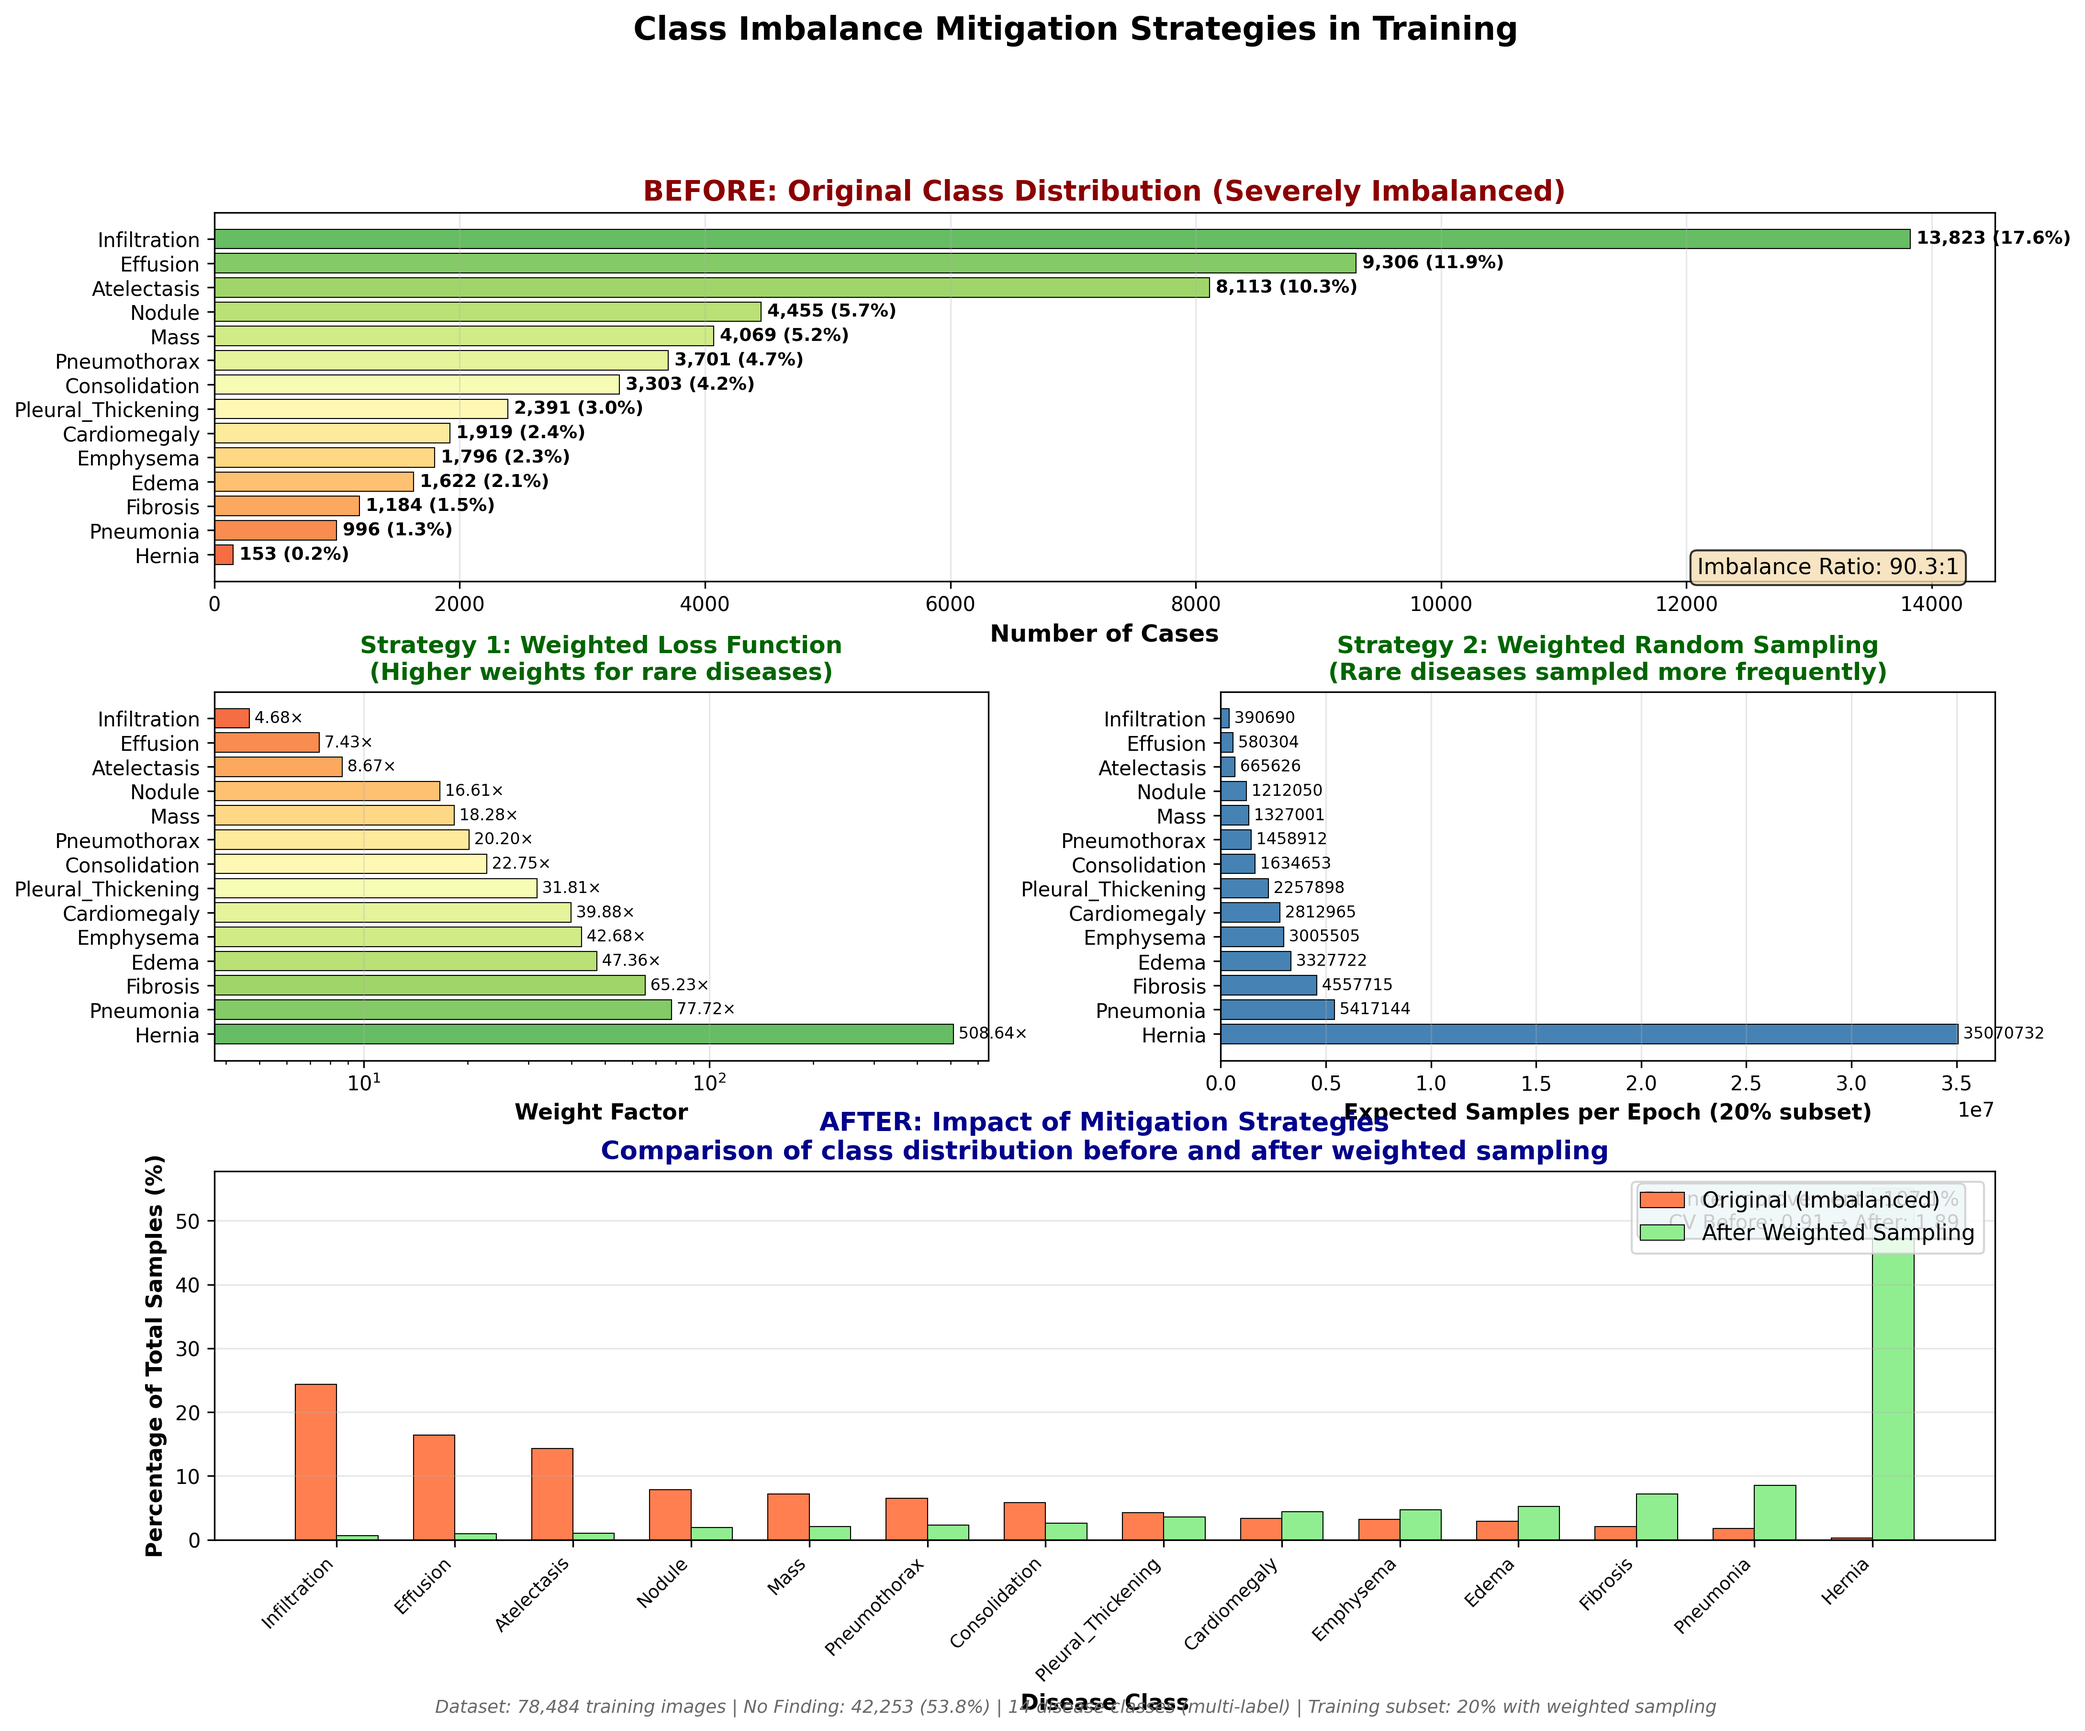
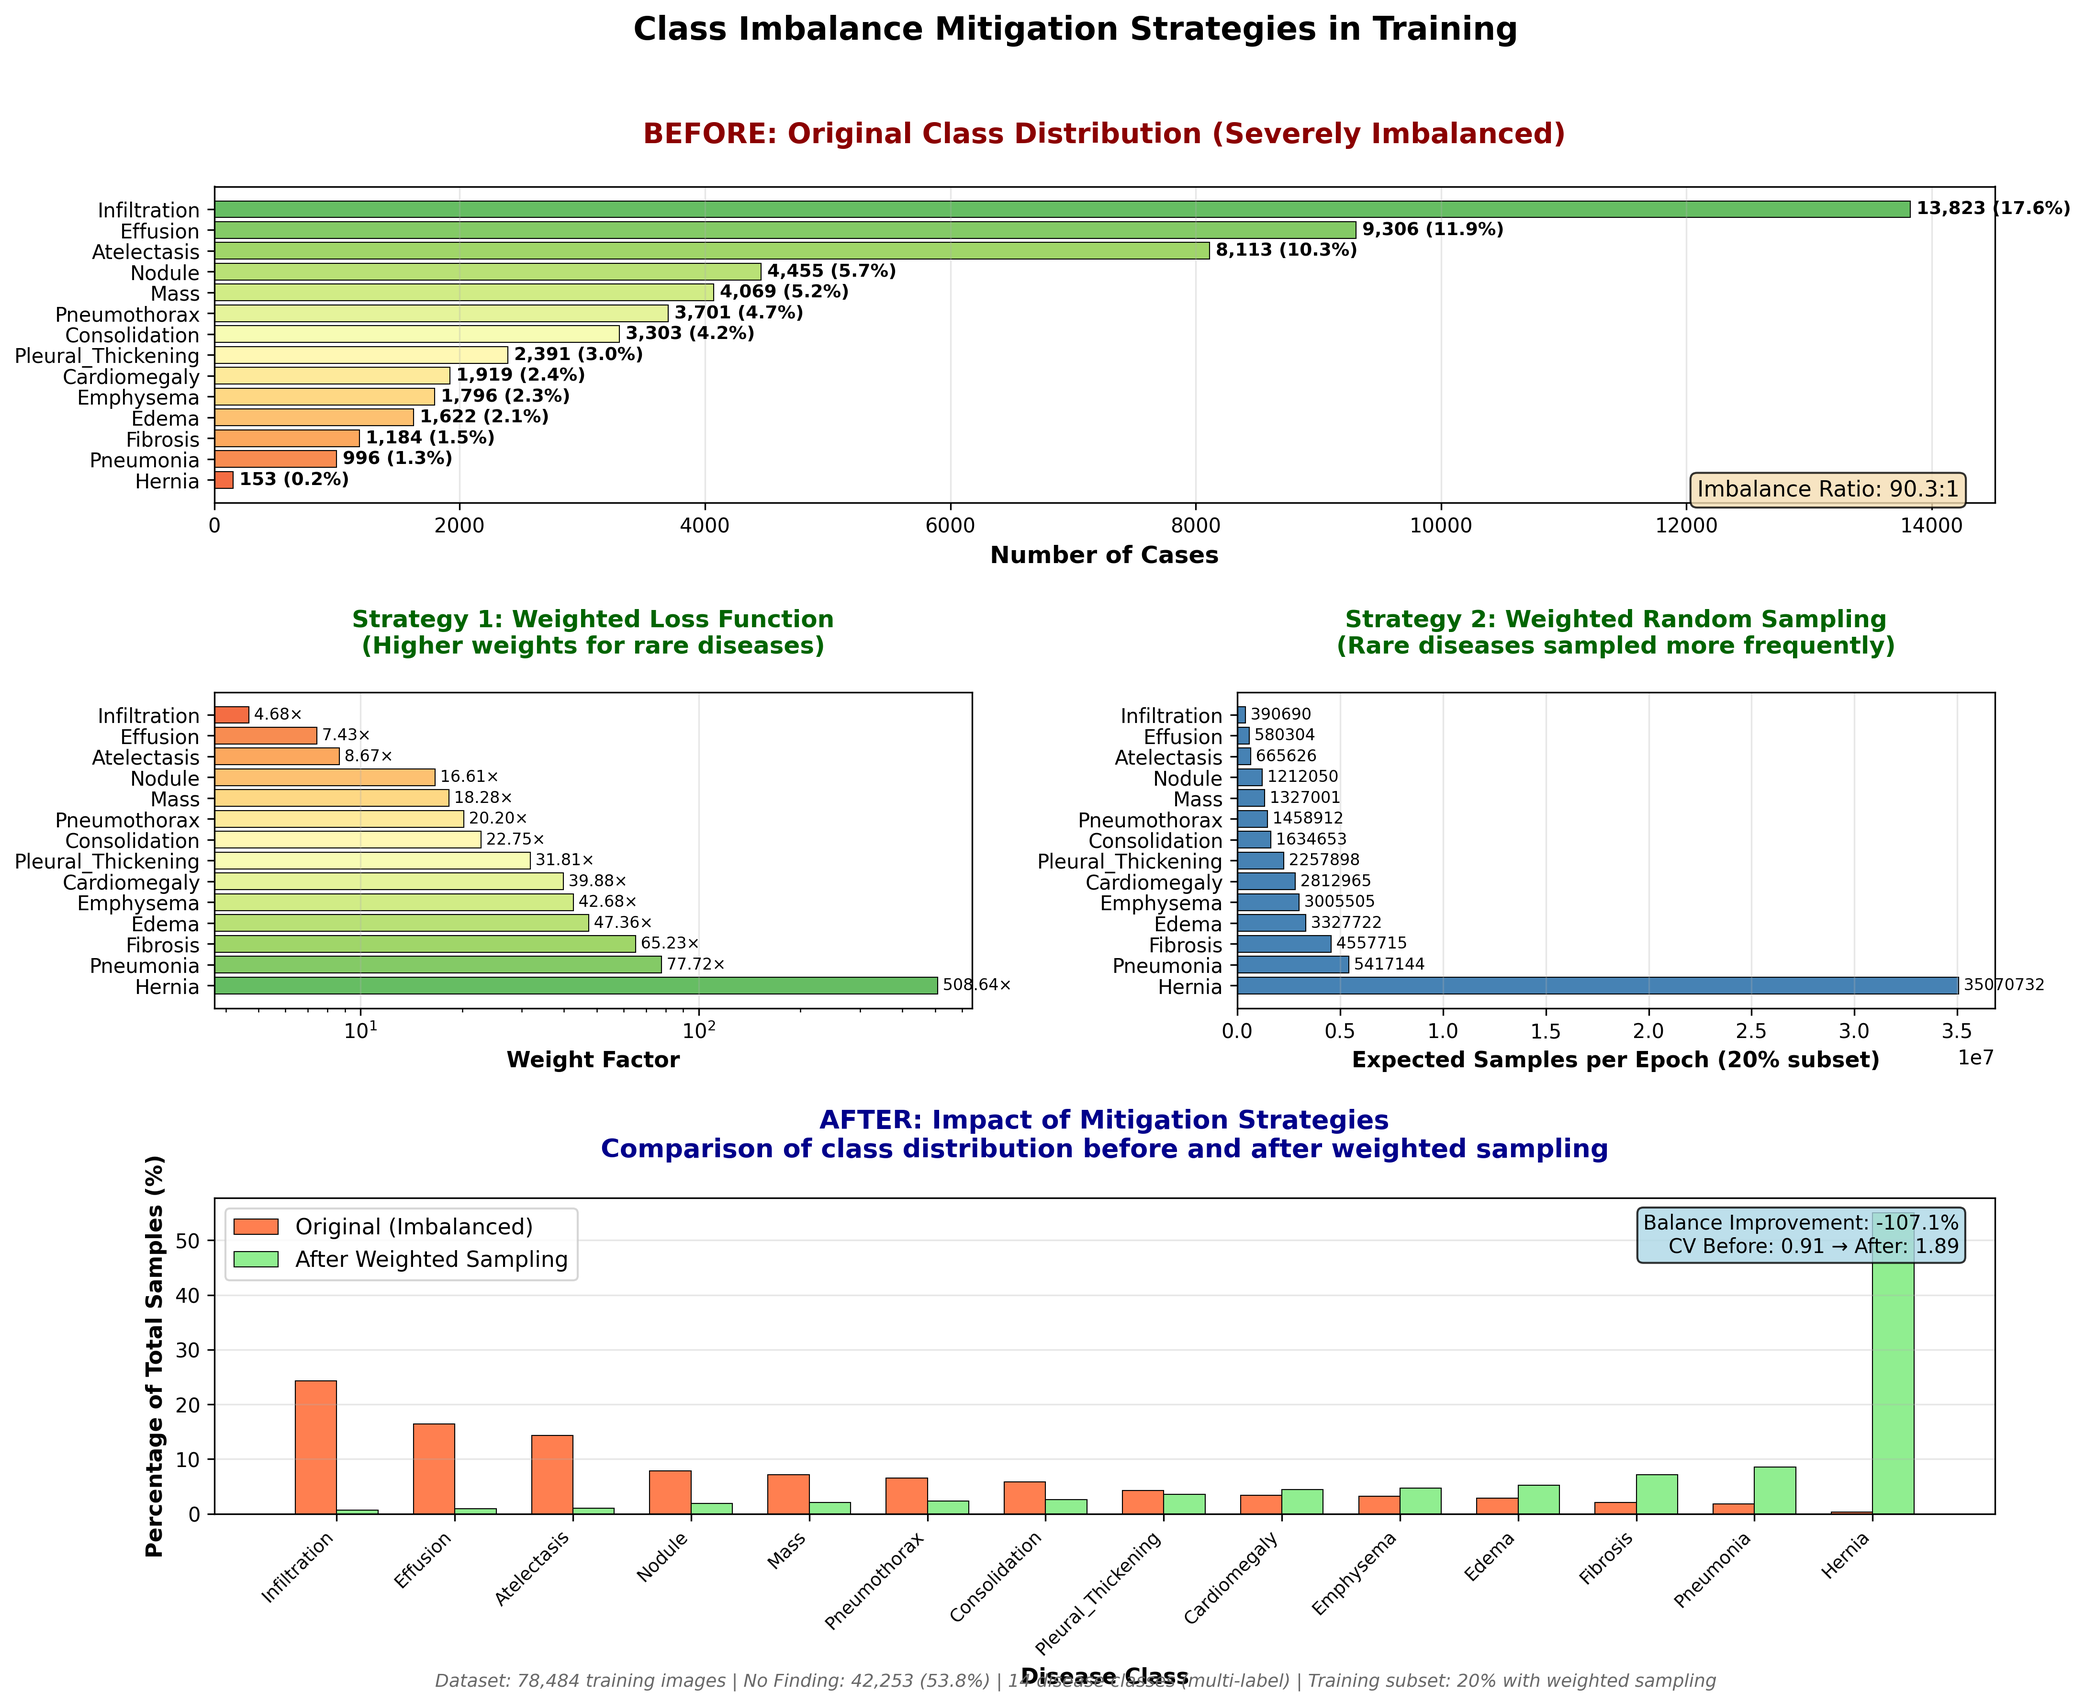
fix: Adjust layout and titles in class balance mitigation visualization for clarity

diff --git a/scripts/visualize_class_balance.py b/scripts/visualize_class_balance.py
@@ -122,7 +122,7 @@ def create_visualization(splits_dir: Path, output_path: Path):
     
     # Create figure with 4 subplots
     fig = plt.figure(figsize=(16, 12))
-    gs = fig.add_gridspec(3, 2, hspace=0.3, wspace=0.3)
+    gs = fig.add_gridspec(3, 2, hspace=0.6, wspace=0.35)
     
     # Color palette
     colors = plt.cm.RdYlGn_r(np.linspace(0.2, 0.8, len(diseases)))
@@ -133,7 +133,7 @@ def create_visualization(splits_dir: Path, output_path: Path):
     ax1 = fig.add_subplot(gs[0, :])
     bars1 = ax1.barh(diseases, original_counts, color=colors, edgecolor='black', linewidth=0.5)
     ax1.set_xlabel('Number of Cases', fontsize=12, fontweight='bold')
-    ax1.set_title('BEFORE: Original Class Distribution (Severely Imbalanced)', 
+    ax1.set_title('BEFORE: Original Class Distribution (Severely Imbalanced)\n', 
                   fontsize=14, fontweight='bold', color='darkred')
     ax1.invert_yaxis()
     ax1.grid(axis='x', alpha=0.3)
@@ -156,7 +156,7 @@ def create_visualization(splits_dir: Path, output_path: Path):
     ax2 = fig.add_subplot(gs[1, 0])
     bars2 = ax2.barh(diseases, weights, color=colors[::-1], edgecolor='black', linewidth=0.5)
     ax2.set_xlabel('Weight Factor', fontsize=11, fontweight='bold')
-    ax2.set_title('Strategy 1: Weighted Loss Function\n(Higher weights for rare diseases)',
+    ax2.set_title('Strategy 1: Weighted Loss Function\n(Higher weights for rare diseases)\n',
                   fontsize=12, fontweight='bold', color='darkgreen')
     ax2.invert_yaxis()
     ax2.set_xscale('log')
@@ -172,7 +172,7 @@ def create_visualization(splits_dir: Path, output_path: Path):
     ax3 = fig.add_subplot(gs[1, 1])
     bars3 = ax3.barh(diseases, effective, color='steelblue', edgecolor='black', linewidth=0.5)
     ax3.set_xlabel('Expected Samples per Epoch (20% subset)', fontsize=11, fontweight='bold')
-    ax3.set_title('Strategy 2: Weighted Random Sampling\n(Rare diseases sampled more frequently)',
+    ax3.set_title('Strategy 2: Weighted Random Sampling\n(Rare diseases sampled more frequently)\n',
                   fontsize=12, fontweight='bold', color='darkgreen')
     ax3.invert_yaxis()
     ax3.grid(axis='x', alpha=0.3)
@@ -202,12 +202,12 @@ def create_visualization(splits_dir: Path, output_path: Path):
     
     ax4.set_ylabel('Percentage of Total Samples (%)', fontsize=11, fontweight='bold')
     ax4.set_xlabel('Disease Class', fontsize=11, fontweight='bold')
-    ax4.set_title('AFTER: Impact of Mitigation Strategies\n'
-                 'Comparison of class distribution before and after weighted sampling',
+    ax4.set_title('\nAFTER: Impact of Mitigation Strategies\n'
+                 'Comparison of class distribution before and after weighted sampling\n',
                   fontsize=13, fontweight='bold', color='darkblue')
     ax4.set_xticks(x)
     ax4.set_xticklabels(diseases, rotation=45, ha='right', fontsize=9)
-    ax4.legend(fontsize=11, loc='upper right')
+    ax4.legend(fontsize=11, loc='upper left')
     ax4.grid(axis='y', alpha=0.3)
     
     # Add balance improvement metric
@@ -226,7 +226,7 @@ def create_visualization(splits_dir: Path, output_path: Path):
     # Overall title and footer
     # ========================================================================
     fig.suptitle('Class Imbalance Mitigation Strategies in Training',
-                 fontsize=16, fontweight='bold', y=0.995)
+                 fontsize=16, fontweight='bold', y=0.98)
     
     fig.text(0.5, 0.01,
              f'Dataset: {total_samples:,} training images | '
@@ -237,6 +237,8 @@ def create_visualization(splits_dir: Path, output_path: Path):
     
     # Save
     output_path.parent.mkdir(parents=True, exist_ok=True)
+    plt.tight_layout(rect=[0, 0.06, 1, 0.96])
+    plt.subplots_adjust(hspace=0.6, wspace=0.35)
     plt.savefig(output_path, dpi=300, bbox_inches='tight', facecolor='white')
     plt.close()
     
